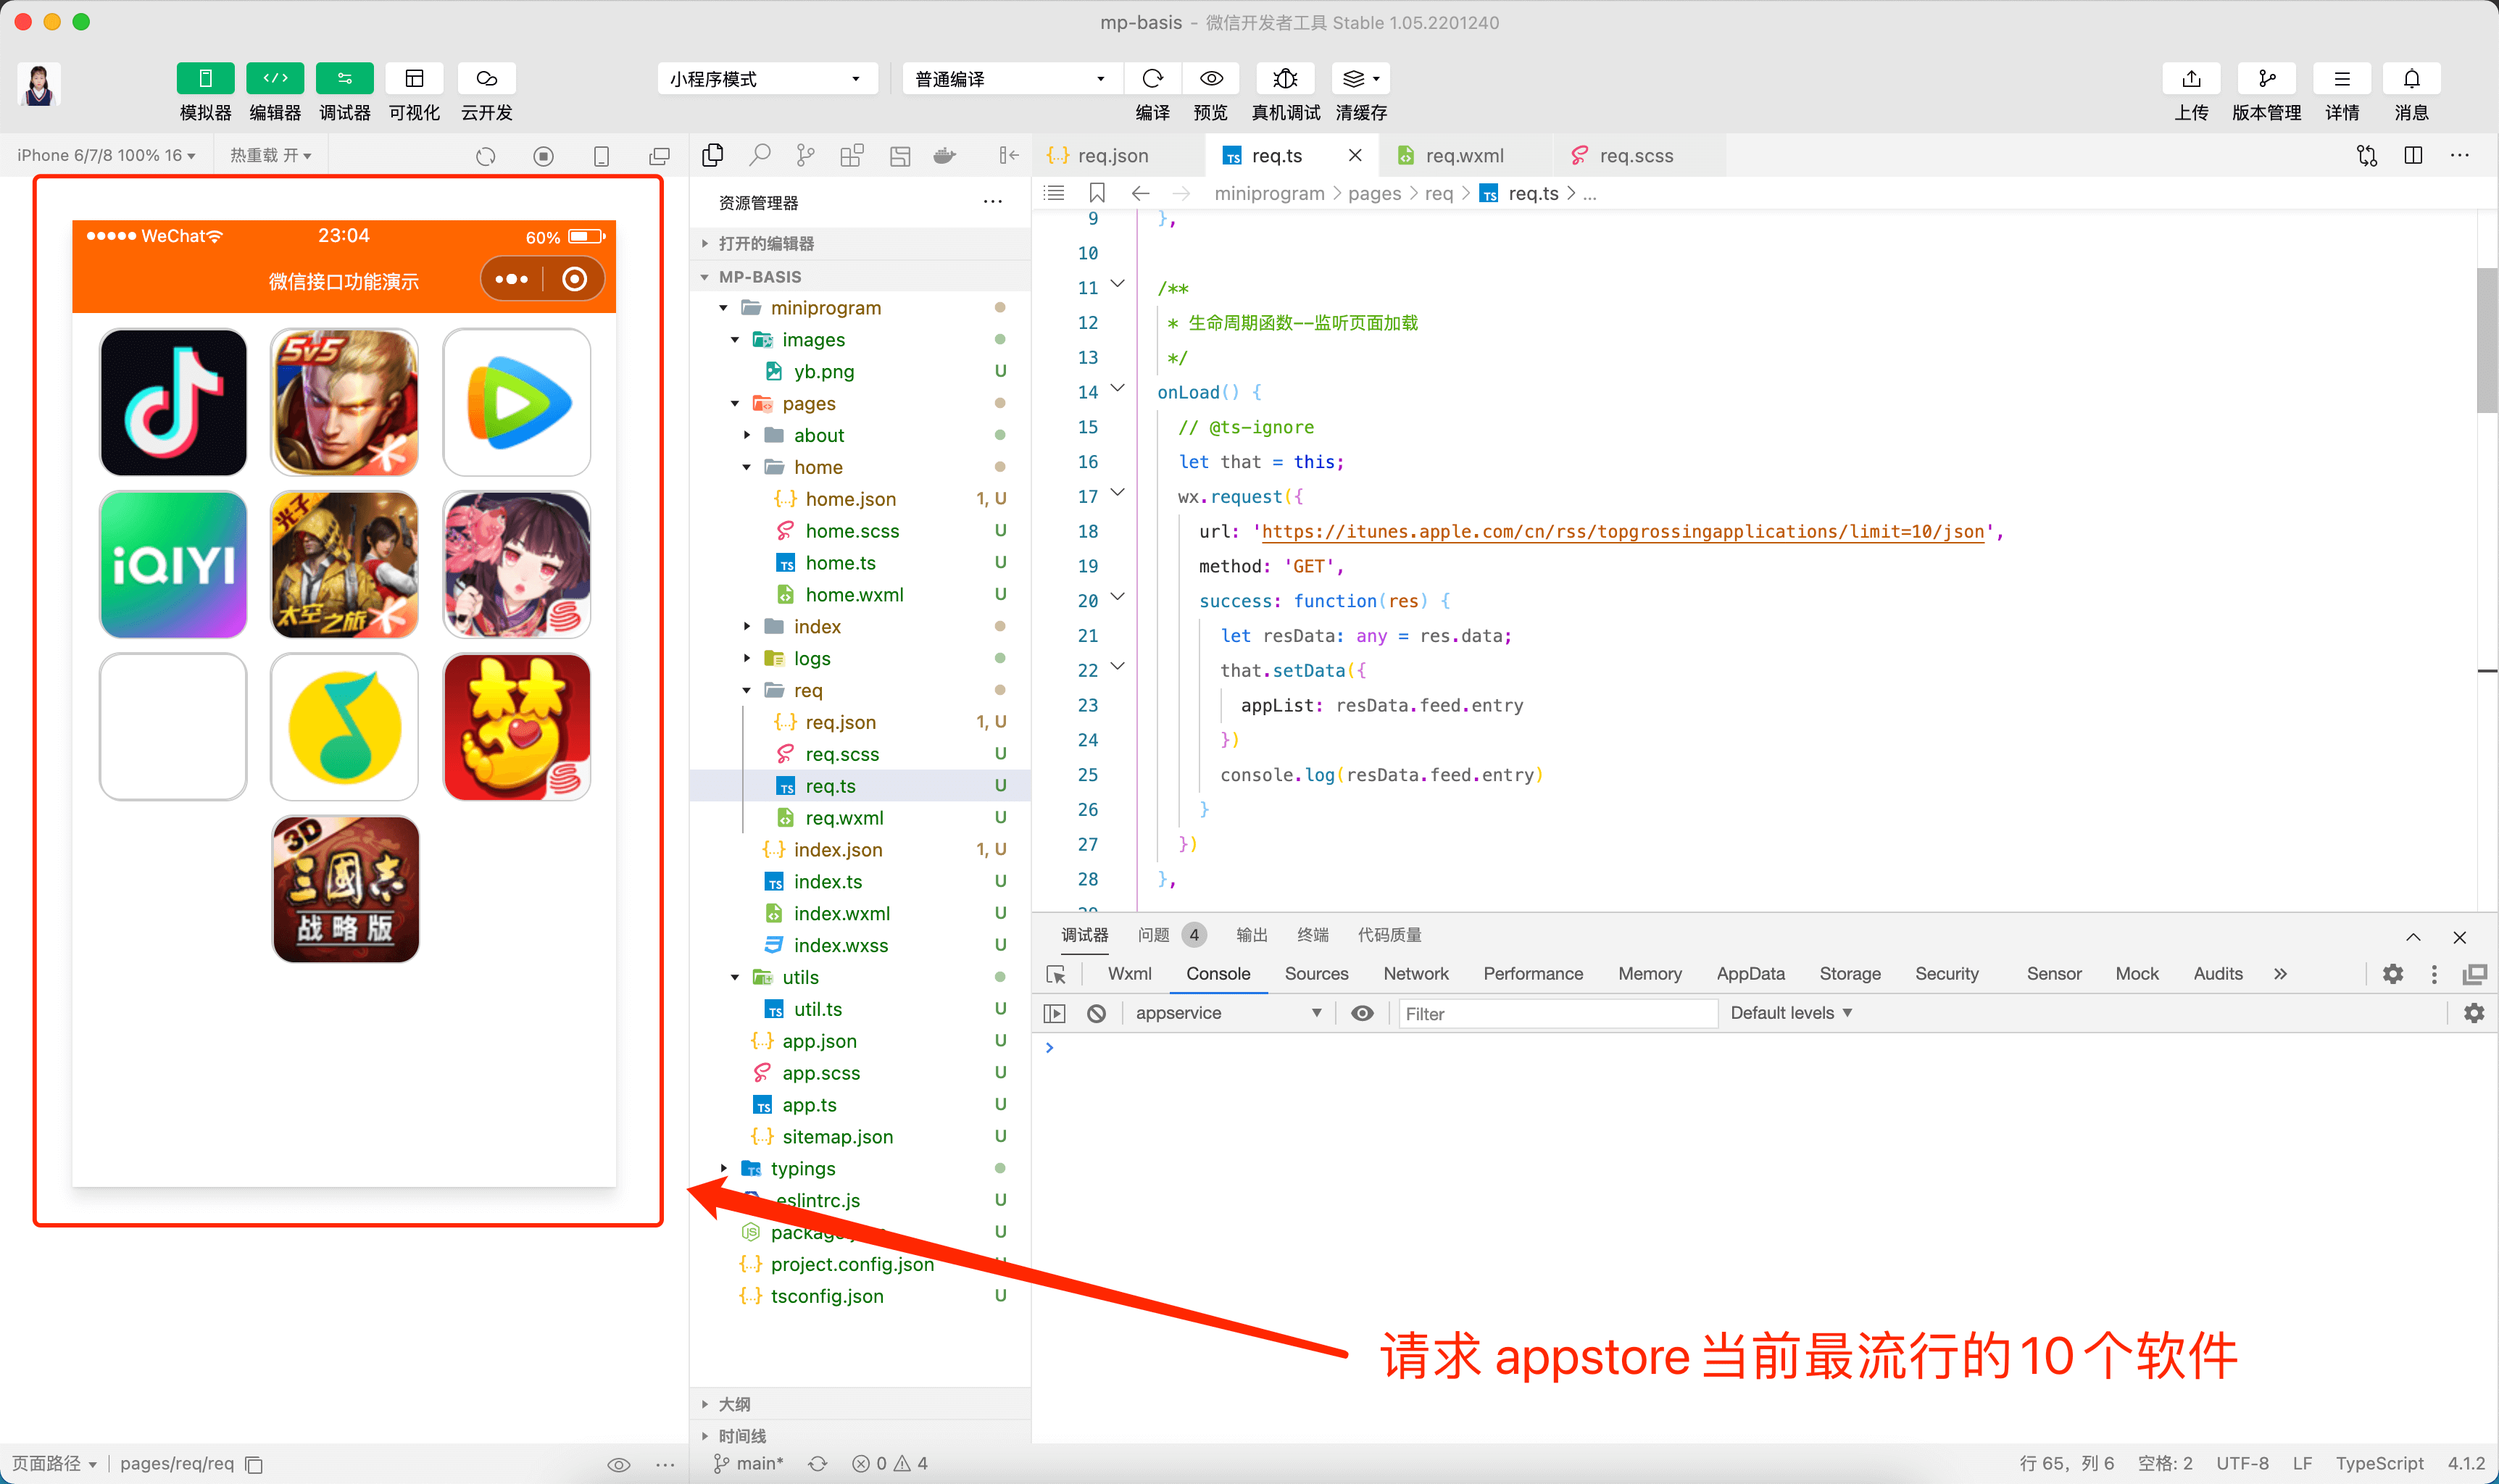
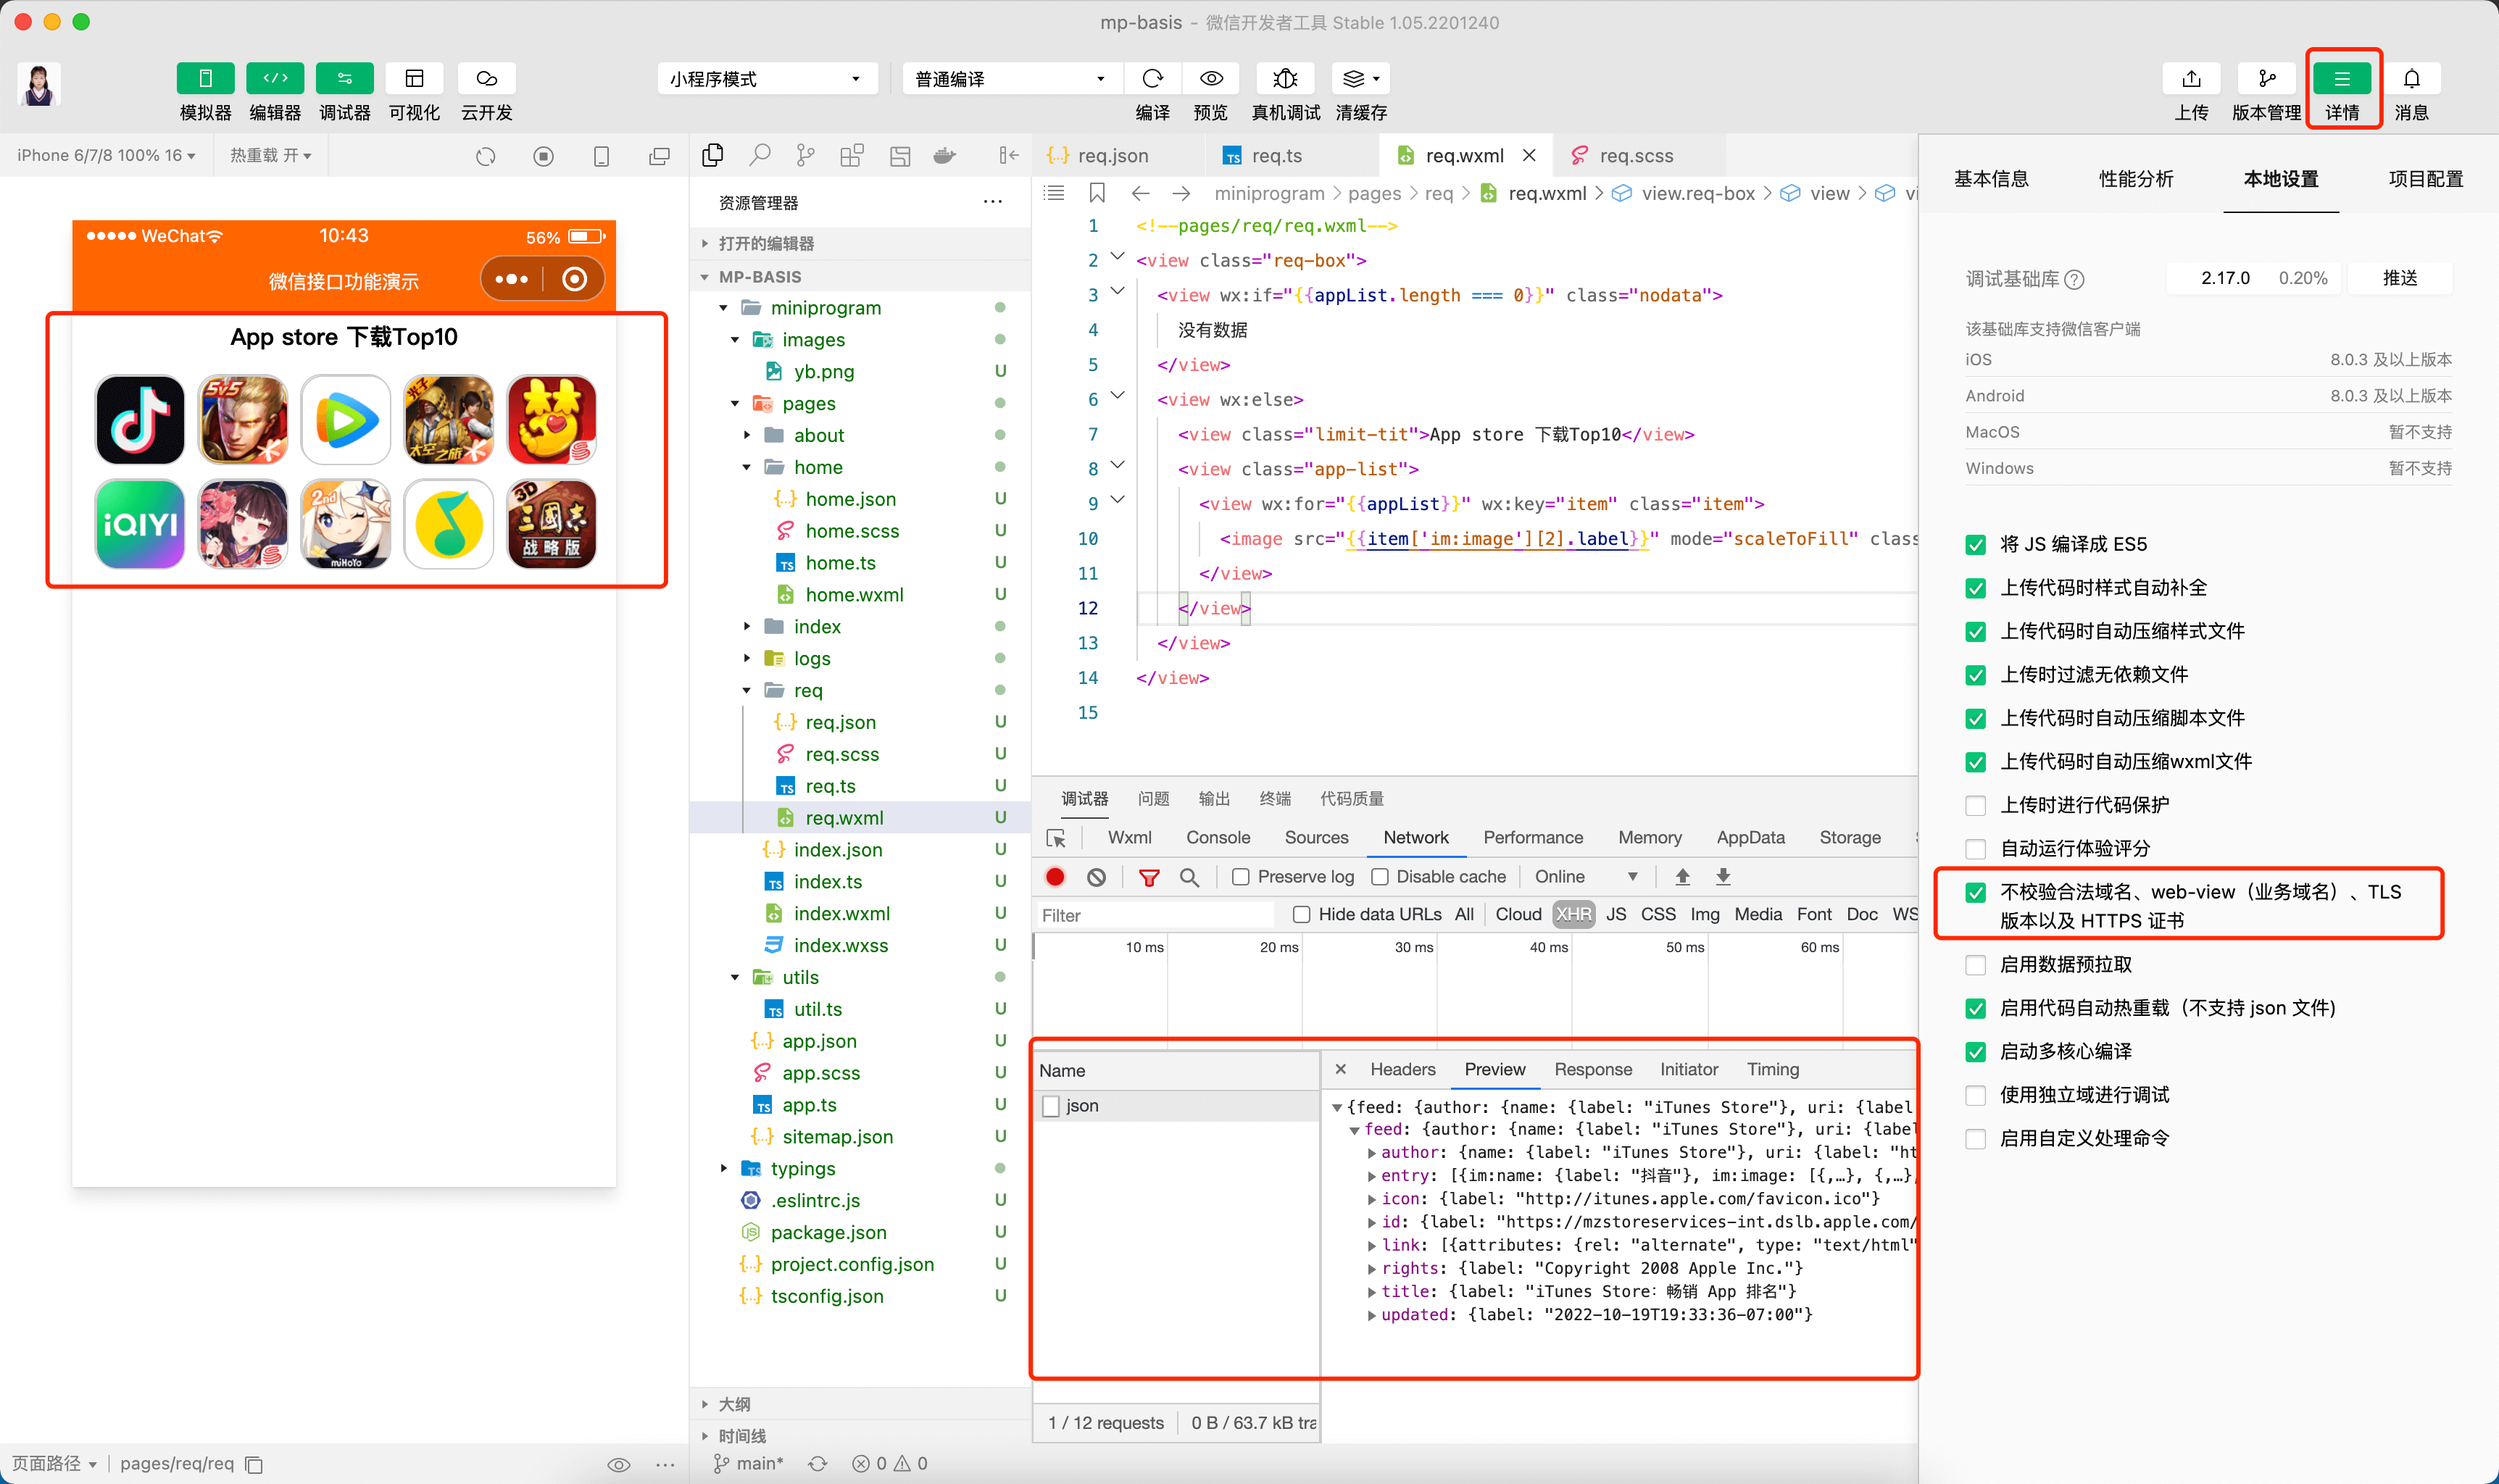
feat: 17_阿里云服务器配置https

diff --git a/docs/tools/17_阿里云服务器配置https.md b/docs/tools/17_阿里云服务器配置https.md
@@ -1,0 +1,137 @@
+## 阿里云服务器配置https
+
+::: tip 
+最近在捣鼓微信小程序，虽然几年前在公司也做过一些小程序，但是都是开发的内部测试体验版，没有涉及到正式版，所以也就没有强制要求所有接口都必须是HTTPS的。
+
+但最近想弄个正式版的玩一玩，所以本文主要介绍下「阿里云服务器是如何配置https」的。
+:::
+
+### 一、域名申请（购买域名）
+
+控制台 -> 域名 -> 域名注册 -> 选择域名，按页面提示输入相关信息 -> 等待实名认证通过
+
+入口：<a href="https://wanwang.aliyun.com/domain/" target="_blank">阿里云 - 注册域名</a><br />
+
+
+
+### 二、申请ssl证书（有免费证书）
+
+ssl证书控制台 -> 申请免费证书 -> 按页面提示，填入相关信息 -> 验证信息 -> 等待验证通过
+
+#### 申请免费证书
+![An image](~@/tools/tools_aliyun.jpeg)
+
+#### 证书下载，需要上传到阿里云服务器里面
+我是下载的 Nginx 相关的，并部署到 nginx 的 cert目录（自定义的）。
+![An image](~@/tools/tools_aliyun2.png)
+
+#### 配置安全组
+![An image](~@/tools/tools_aliyun3.png)
+
+
+#### 三、Nginx配置
+```js
+server {
+    listen       443 ssl;
+    server_name  _;  # 值为 _ 表示 域名和ip都能访问
+
+    ssl_certificate "/usr/local/nginx/cert/server.pem";  # ssl的.pem文件（绝对地址）
+    ssl_certificate_key "/usr/local/nginx/cert/server.key";  # ssl的.key文件（绝对地址）
+    ssl_session_cache shared:SSL:1m;
+    ssl_session_timeout  10m;
+    ssl_ciphers HIGH:!aNULL:!MD5;
+    ssl_prefer_server_ciphers on;
+
+    # 配置文件上传大小
+    client_max_body_size 2G;
+
+    location / {
+        root   web/nuxt-web/build;
+        try_files $uri $uri/ /index.html;
+        index index.html;
+        autoindex on;
+        gzip on;
+        gzip_types application/javascript text/css;
+        gzip_vary on; # 是否传输gzip压缩标志
+        add_header Access-Control-Allow-Origin '*';
+        add_header Access-Control-Allow-Methods 'GET, POST, PUT, OPTIONS';
+        add_header Access-Control-Expose-Headers 'Accept-Ranges, Content-Encoding, Content-Length, Content-Range';
+    }
+
+    error_page   500 502 503 504  /50x.html;
+    location = /50x.html {
+        root   html;
+    }
+}
+```
+
+
+::: danger  但是因为我之前已经安装和配置好了 nginx，所以重启 nginx 的时候，会报错。
+nginx: [emerg] the "ssl" parameter requires ngx_http_ssl_module
+:::
+
+原因就是：证明nginx在编译安装时候没有连同http_ssl_module模块一同编译；现在的情况是nginx已经安装过了，需要重新编译，编译安装的时候带上--with-http_ssl_module配置。
+
+```js
+// 1. 修改前
+$ sudo nginx -V
+nginx version: nginx/1.16.1
+built by gcc 4.8.5 20150623 (Red Hat 4.8.5-36) (GCC)
+configure arguments:
+
+// 2.切换到源码包
+
+// 3.进行编译：
+sudo ./configure --with-http_stub_status_module --with-http_ssl_module
+
+// 4.配置完成后，运行命令：
+sudo make
+// ======== 注意： 如果碰到 make报错“-bash: ./configure: No such file
+// 解决思路：先定位到根目录，使用find -name configure找到目录，然后cd到该目录即可 
+
+// 5.make命令执行后，不要进行make install，否则会覆盖安装。
+
+// 6.备份原有已安装好的nginx：
+sudo cp /usr/local/nginx/sbin/nginx /usr/local/nginx/sbin/nginx.bak
+sudo ls -l /usr/local/nginx/sbin/
+
+// 7.停止nginx状态：
+ps -aux|grep nginx
+sudo kill -9 <PID>
+// ========================= Tip： PID是哪个值 =======================================
+// UID        PID  PPID  C STIME TTY          TIME CMD
+// root         1     0  0 Jun10 ?        00:18:03 /usr/bin/python /usr/bin/supervisord
+// root        16     1  0 Jun10 ?        00:00:00 /usr/sbin/sshd -D
+// root        17     1  0 Jun10 ?        00:00:19 php-fpm: master process (/etc/php-fpm.conf)
+
+
+// 8.将编译好的nginx覆盖掉原有的nginx：
+sudo cp ./objs/nginx /usr/local/nginx/sbin/
+
+// 9.提示是否覆盖，输入yes即可。
+
+// 10.然后启动nginx：
+/usr/local/nginx/sbin/nginx
+
+// 11.有以下提示，证明已经编译成功：
+$ sudo nginx -V
+nginx version: nginx/1.16.1
+built by gcc 4.8.5 20150623 (Red Hat 4.8.5-36) (GCC)
+built with OpenSSL 1.0.2k-fips  26 Jan 2017
+TLS SNI support enabled
+configure arguments: --with-http_stub_status_module --with-http_ssl_module
+
+// 12. 重启 Nginx
+```
+
+
+### 四、效果截图
+![An image](~@/tools/tools_aliyun4.png)
+![An image](~@/tools/tools_aliyun5.png)
+
+
+
+参考：<br />
+<a href="https://www.jianshu.com/p/f00c37ff6077" target="_blank">阿里云服务器配置https</a><br />
+<a href="https://www.jianshu.com/p/600e398fe88d" target="_blank">nginx: [emerg] the "ssl" parameter requires ngx_http_ssl_module</a><br />
+

diff --git a/docs/mp/8_如何发送网络数据请求.md b/docs/mp/8_如何发送网络数据请求.md
@@ -1,14 +1,25 @@
 ## 微信小程序发送请求
 
+::: tip 微信小程序发送网络请求的关键词是 wx.request
+1. 域名必须是HTTPS协议的，不能用IP或者localhost等
+2. 域名需要在小程序里面进行合法化配置
+3. 调试时，可以选择「不做上述校验」，但正式发布不可以
+:::
+
+
+
 ```xml
 <!--pages/req/req.wxml-->
 <view class="req-box">
   <view wx:if="{{appList.length === 0}}" class="nodata">
     没有数据
   </view>
-  <view wx:else class="app-list">
-    <view wx:for="{{appList}}" wx:key="item" class="item">
-      <image src="{{item['im:image'][2].label}}" mode="scaleToFill" class="item"></image>
+  <view wx:else>
+    <view class="limit-tit">App store 下载Top10</view>
+    <view class="app-list">
+      <view wx:for="{{appList}}" wx:key="item" class="item">
+        <image src="{{item['im:image'][2].label}}" mode="scaleToFill" class="item"></image>
+      </view>
     </view>
   </view>
 </view>
@@ -56,6 +67,10 @@ Page({
   .nodata {
     padding: 100rpx;
   }
+  .limit-tit {
+    padding: 10rpx;
+    font-weight: bold;
+  }
   .app-list {
     display: flex;
     justify-content: space-around;
@@ -63,8 +78,8 @@ Page({
     padding: 20rpx;
     .item {
       margin-bottom: 20rpx;
-      width: 200rpx;
-      height: 200rpx;
+      width: 120rpx;
+      height: 120rpx;
       border: 1rpx solid #ccc;
       border-radius: 30rpx;
     }
